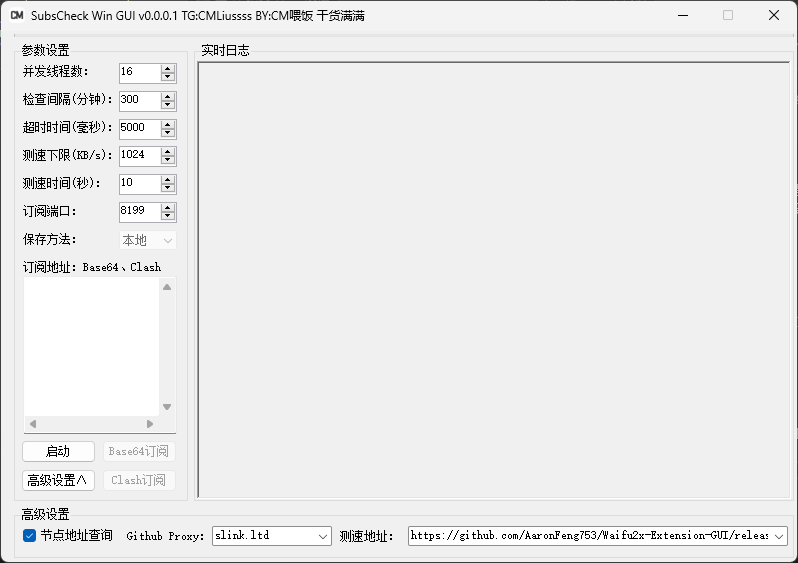
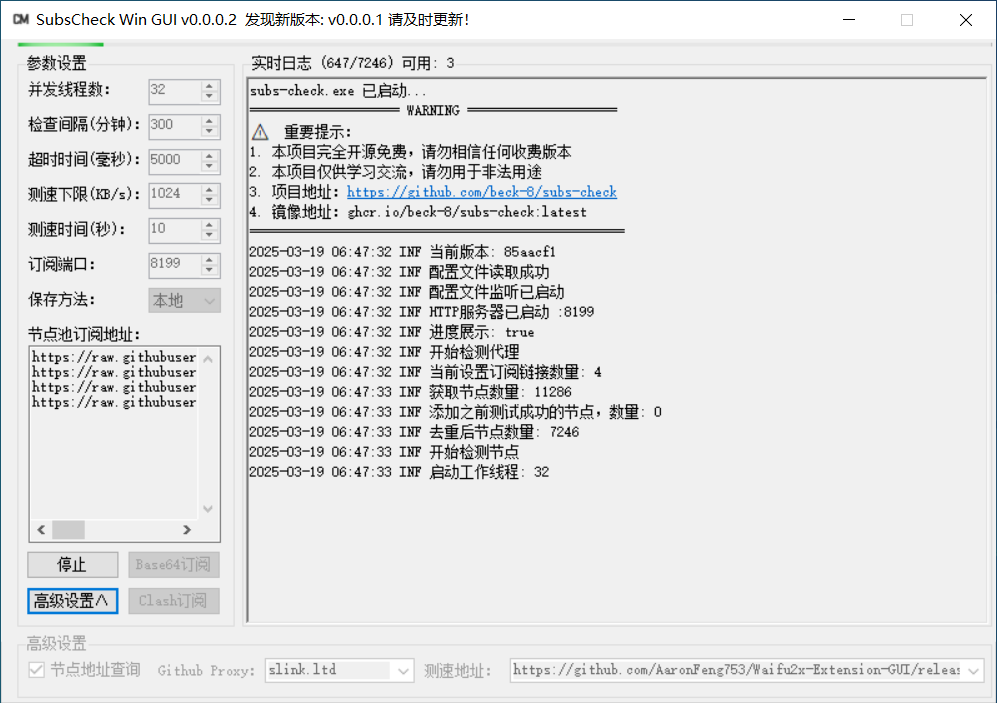
增强用户界面控件的启用状态管理

diff --git a/Form1.cs b/Form1.cs
@@ -517,6 +517,9 @@ namespace subs_check.win.gui
                 comboBox1.Enabled = false;
                 textBox1.ReadOnly = true;
                 groupBox3.Enabled = false;
+                groupBox4.Enabled = false;
+                groupBox5.Enabled = false;
+                groupBox6.Enabled = false;
                 SaveConfig();
                 button1.Text = "停止";
 
@@ -550,6 +553,9 @@ namespace subs_check.win.gui
                 comboBox1.Enabled = true;
                 textBox1.ReadOnly = false;
                 groupBox3.Enabled = true;
+                groupBox4.Enabled = true;
+                groupBox5.Enabled = true;
+                groupBox6.Enabled = true;
                 button1.Text = "启动";
 
                 // 更新菜单项的启用状态
